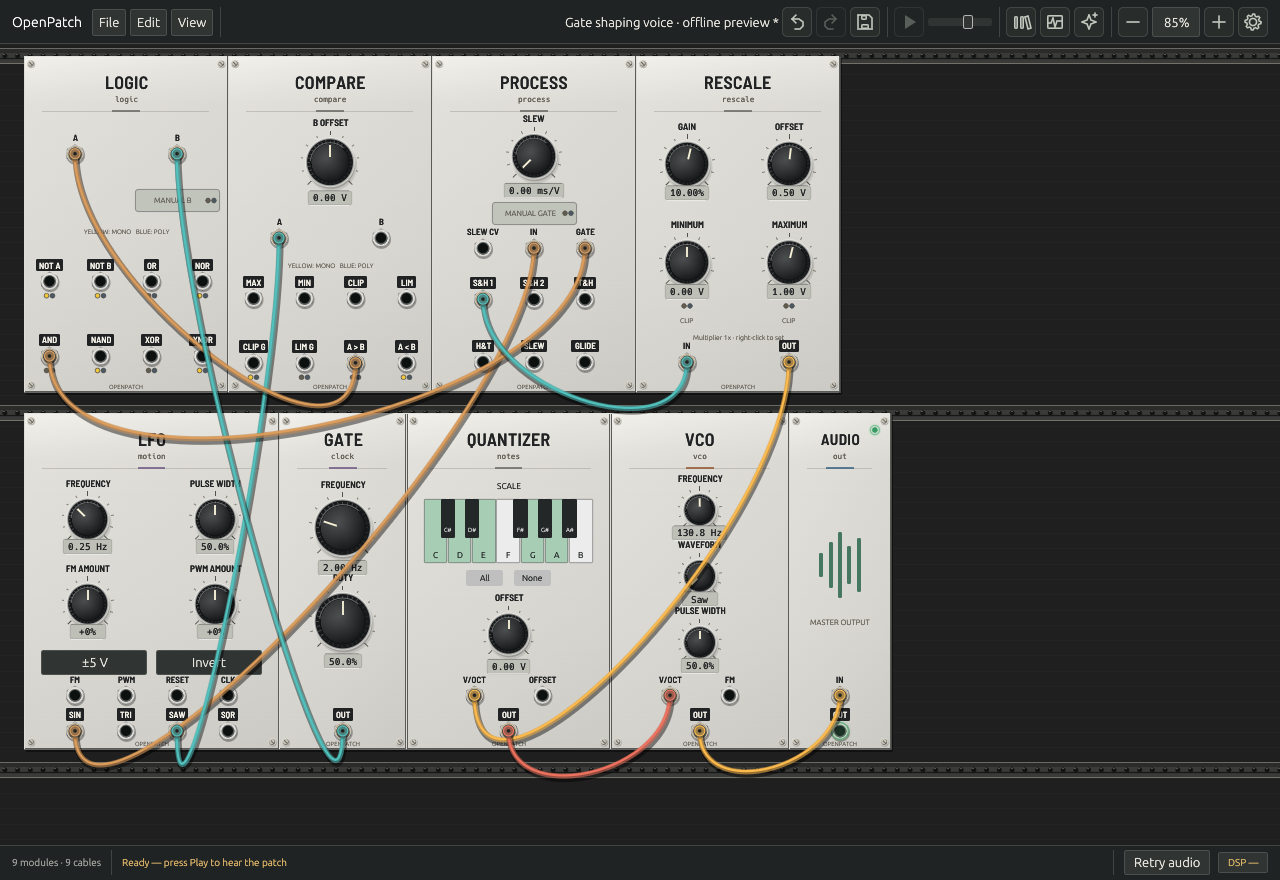
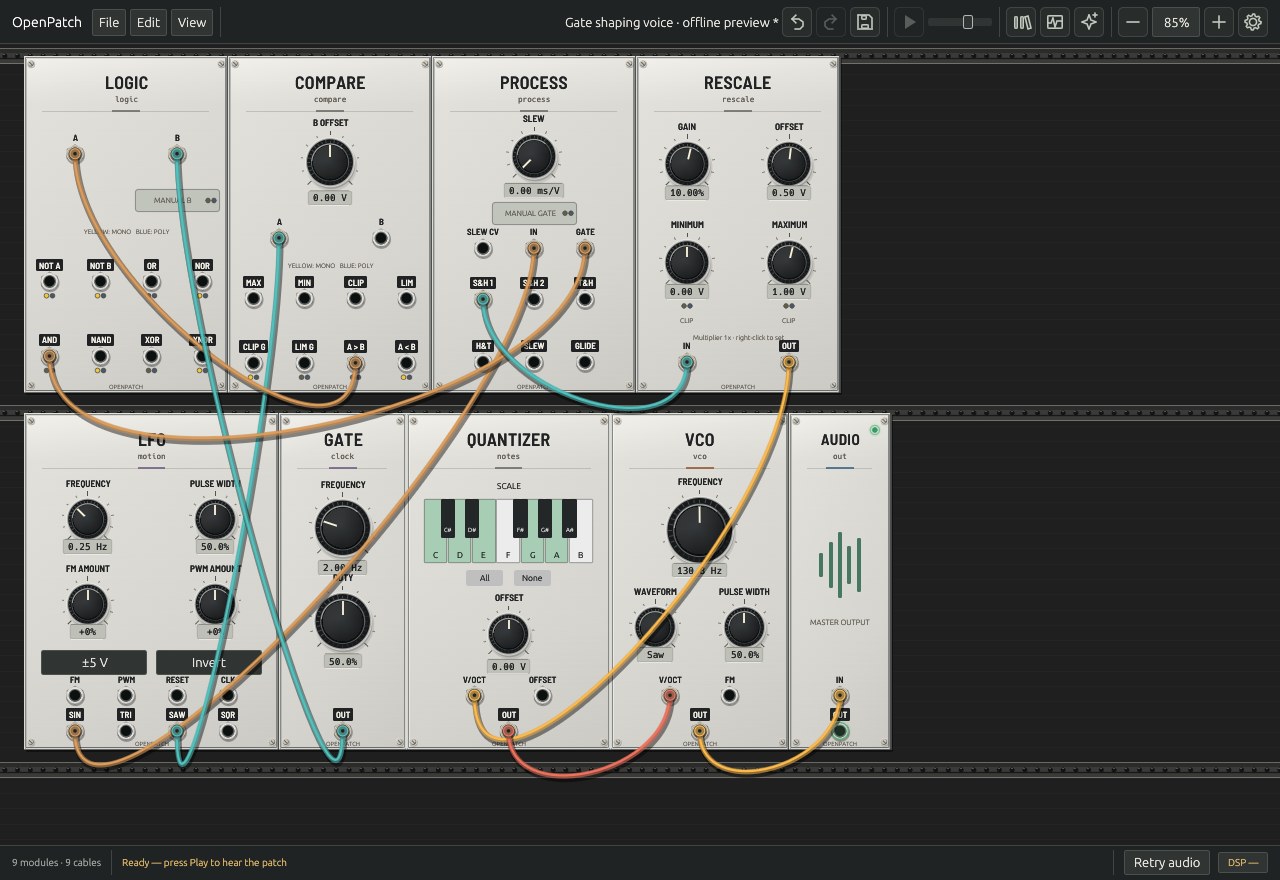
Refresh product screenshots for the refined hardware panels [skip ci]

diff --git a/README.md b/README.md
@@ -304,7 +304,7 @@ normaling, and voice behavior explicitly.
 
 Search module names, controls and ports, filter by musical role, and star favorites.
 Drag a tile onto the rack to preview its placement; adding a module is one undo step.
-The library stays open while you patch cables and edit controls. Its thumbnails render the actual module panels at their default settings, with the same control layout, typography, knobs, and jacks as the rack. [Panel design and preview behavior →](docs/PANEL_DESIGN.md)
+The library stays open while you patch cables and edit controls. Its thumbnails render the actual module panels at their default settings, with the same control layout, typography, knobs, and jacks as the rack. Hover a card for a larger view of the complete panel. [Panel design and preview behavior →](docs/PANEL_DESIGN.md)
 
 <sub>Actual native Linux / Mesa CI render. macOS is the primary design target.</sub>
 
